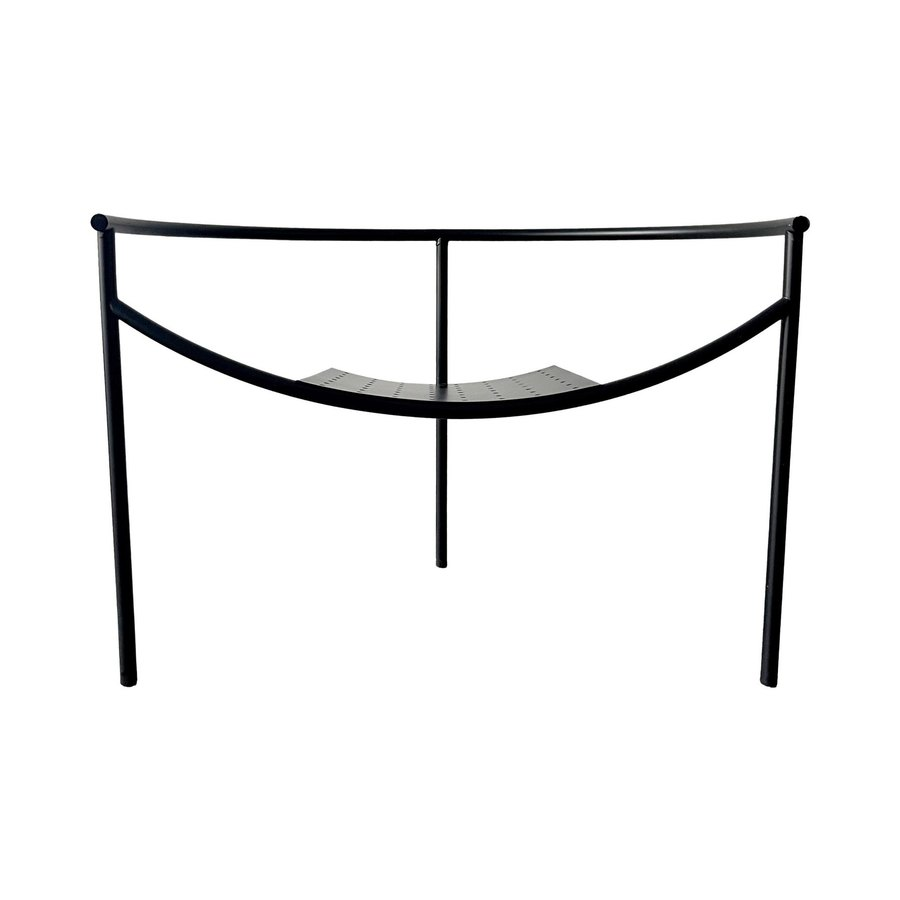
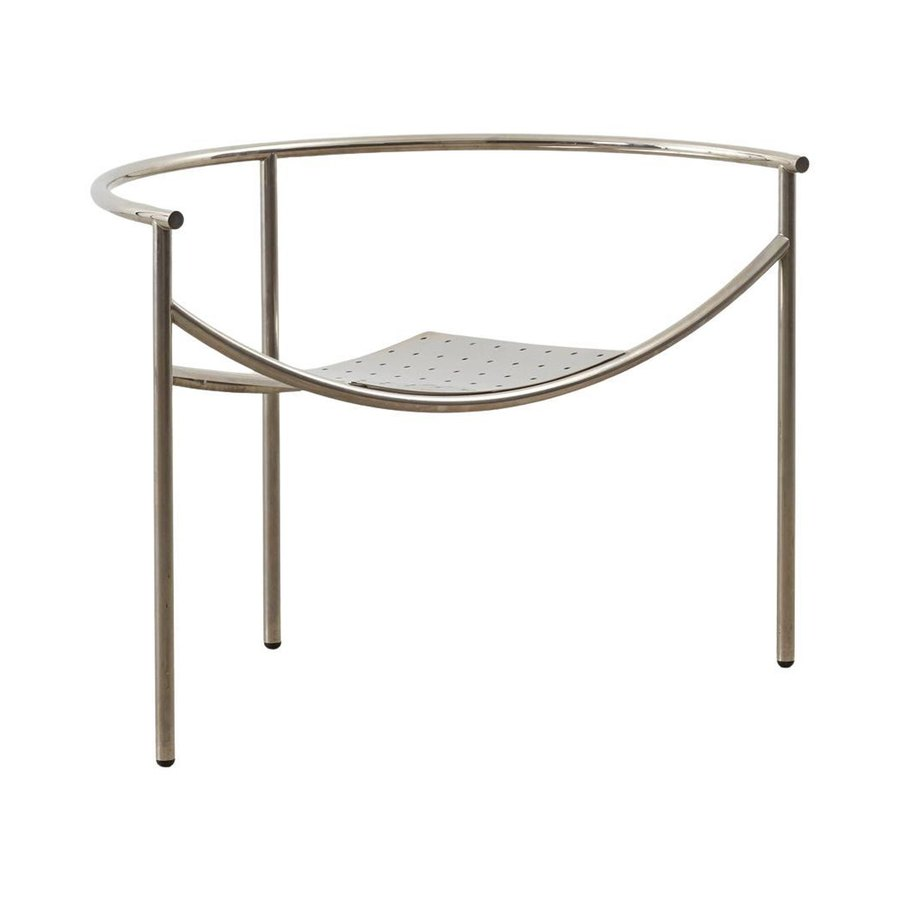
Silla Dr. Sonderbar: fotos de 1stdibs (principal centrada y detalle)
Claude-Session: https://claude.ai/code/session_01Xops2A717m5QMFGxGir6Zh

Changed region(s): [[0.0933, 0.1244, 0.9022, 0.8711]]

diff --git a/data/biblioteca.js b/data/biblioteca.js
@@ -44,7 +44,7 @@ window.BIBLIOTECA = {
     { id: "silla-markelius", nombre: "Silla Markelius", categoria: "Sillas", autor: "", marca: "Vintage · Fenix Originals", imagen: "img/mobiliario/silla-markelius.jpg", detalle: "img/mobiliario/silla-markelius-detalle.jpg" },
     { id: "silla-quadra", nombre: "Silla Quadra", categoria: "Sillas", autor: "", marca: "Otra Objects", imagen: "img/mobiliario/silla-quadra.jpg", detalle: "img/mobiliario/silla-quadra-detalle.jpg" },
     { id: "section-coffee-table", nombre: "Section Coffee Table", categoria: "Mesas", autor: "Paul Coenen", marca: "Vasto Gallery", año: 2023, imagen: "img/mobiliario/section-coffee-table.jpg" },
-    { id: "silla-dr-sonderbar", nombre: "Silla Dr. Sonderbar", categoria: "Sillas", autor: "Philippe Starck", marca: "XO · Vintage, Polop Store", año: 1983, imagen: "img/mobiliario/silla-dr-sonderbar.jpg" },
+    { id: "silla-dr-sonderbar", nombre: "Silla Dr. Sonderbar", categoria: "Sillas", autor: "Philippe Starck", marca: "XO · Vintage, Polop Store", año: 1983, imagen: "img/mobiliario/silla-dr-sonderbar.jpg", detalle: "img/mobiliario/silla-dr-sonderbar-detalle.jpg" },
     { id: "lampara-falkland", nombre: "Lámpara Falkland", categoria: "Iluminación", subcategoria: "Suspensión", autor: "Bruno Munari", marca: "Artemide", año: 1964, imagen: "img/mobiliario/lampara-falkland.jpg" },
     { id: "fragile-lamp", nombre: "Fragile Lamp", categoria: "Iluminación", subcategoria: "Sobremesa", autor: "Jaume Ramírez", marca: "Marset", año: 2023, imagen: "img/mobiliario/fragile-lamp.jpg" },
     { id: "l4-stool", nombre: "L4 Stool", categoria: "Taburetes", autor: "Lucas Cambier", marca: "Cambier Studio", imagen: "img/mobiliario/l4-stool.jpg" },
